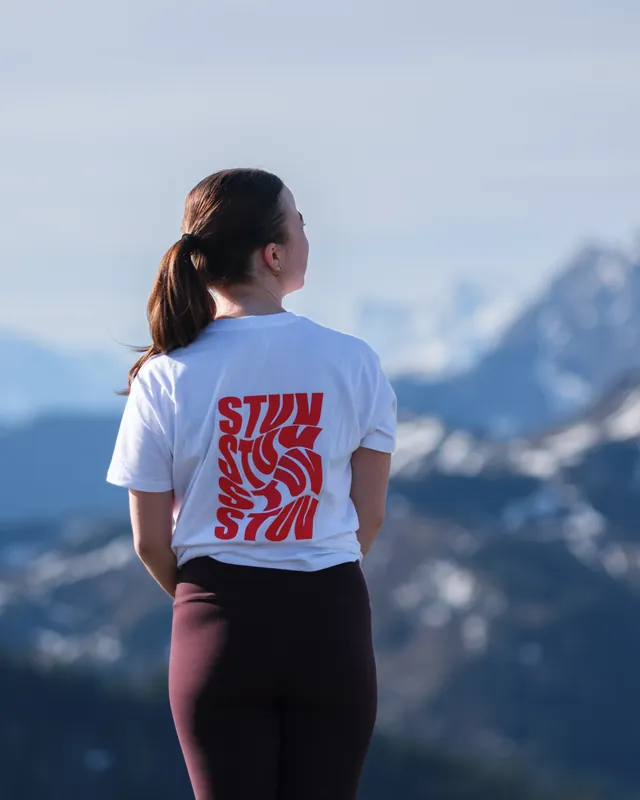
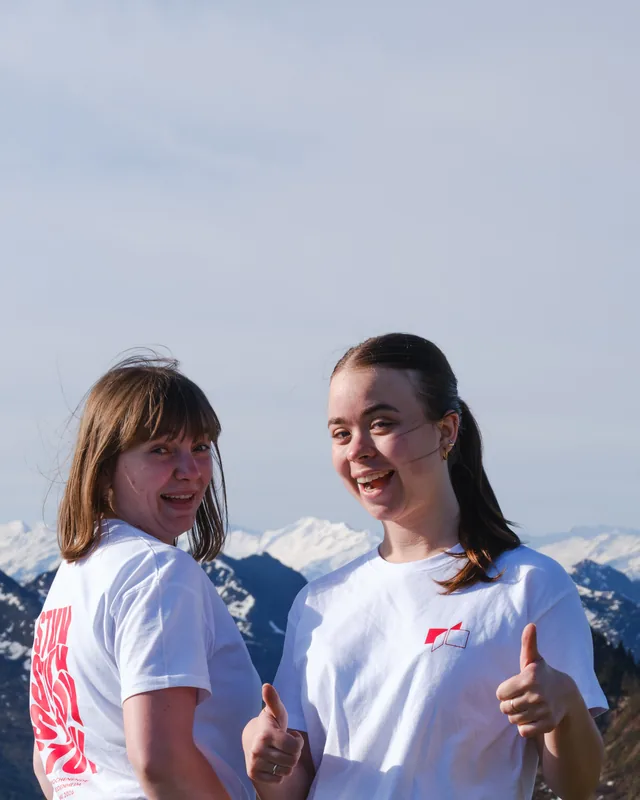
Replace the Wanderung photo with a waist-up shot of two people
The new photo shows two people in StuV shirts, so the alt text changes with it. It is cropped above the belt to leave out the jeans, and the sky is stretched upward to keep the 4:5 ratio of the photo strip.

diff --git a/data/pages/ueber-uns/05-cta.html b/data/pages/ueber-uns/05-cta.html
@@ -40,7 +40,7 @@
     <figure class="wp-block-image stuv-media">
       <img
         src="/wp-content/uploads/mitmachen-wanderung.webp"
-        alt="Wanderin im StuV-Shirt vor einem Alpenpanorama"
+        alt="Zwei Personen in StuV-Shirts lachen vor einem Alpenpanorama in die Kamera"
         style="aspect-ratio: 4/5; object-fit: cover"
       />
     </figure>
